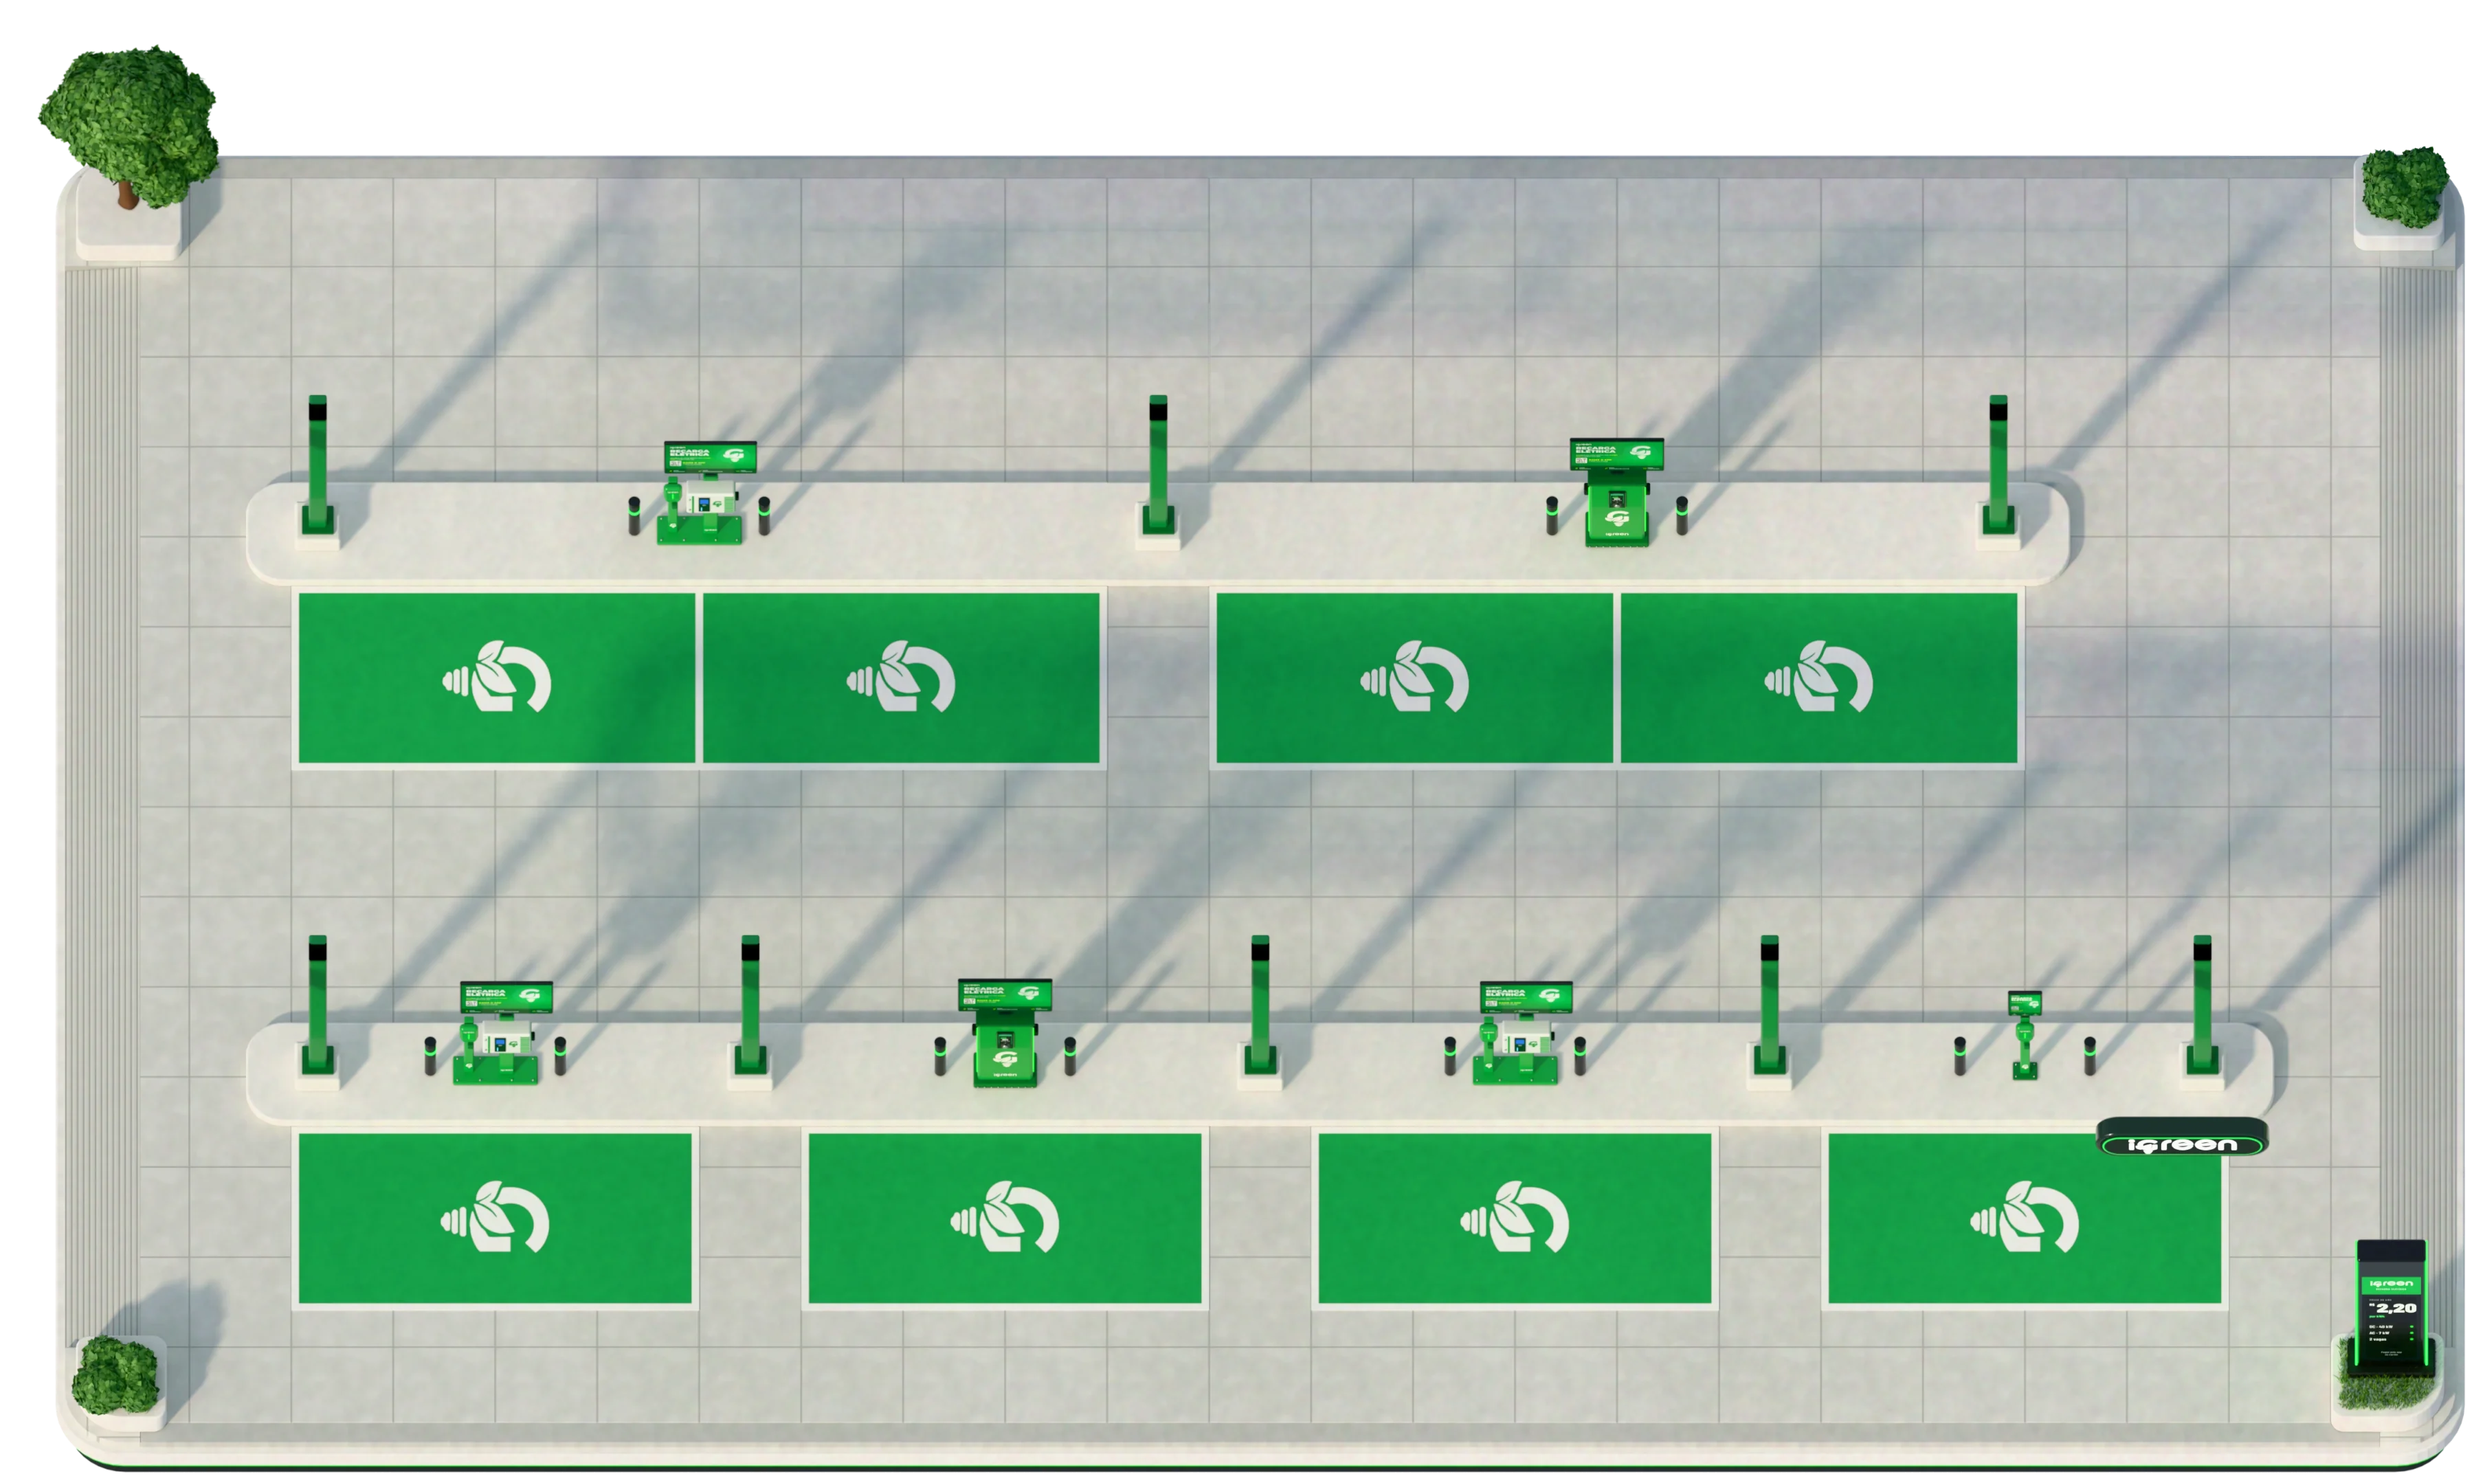
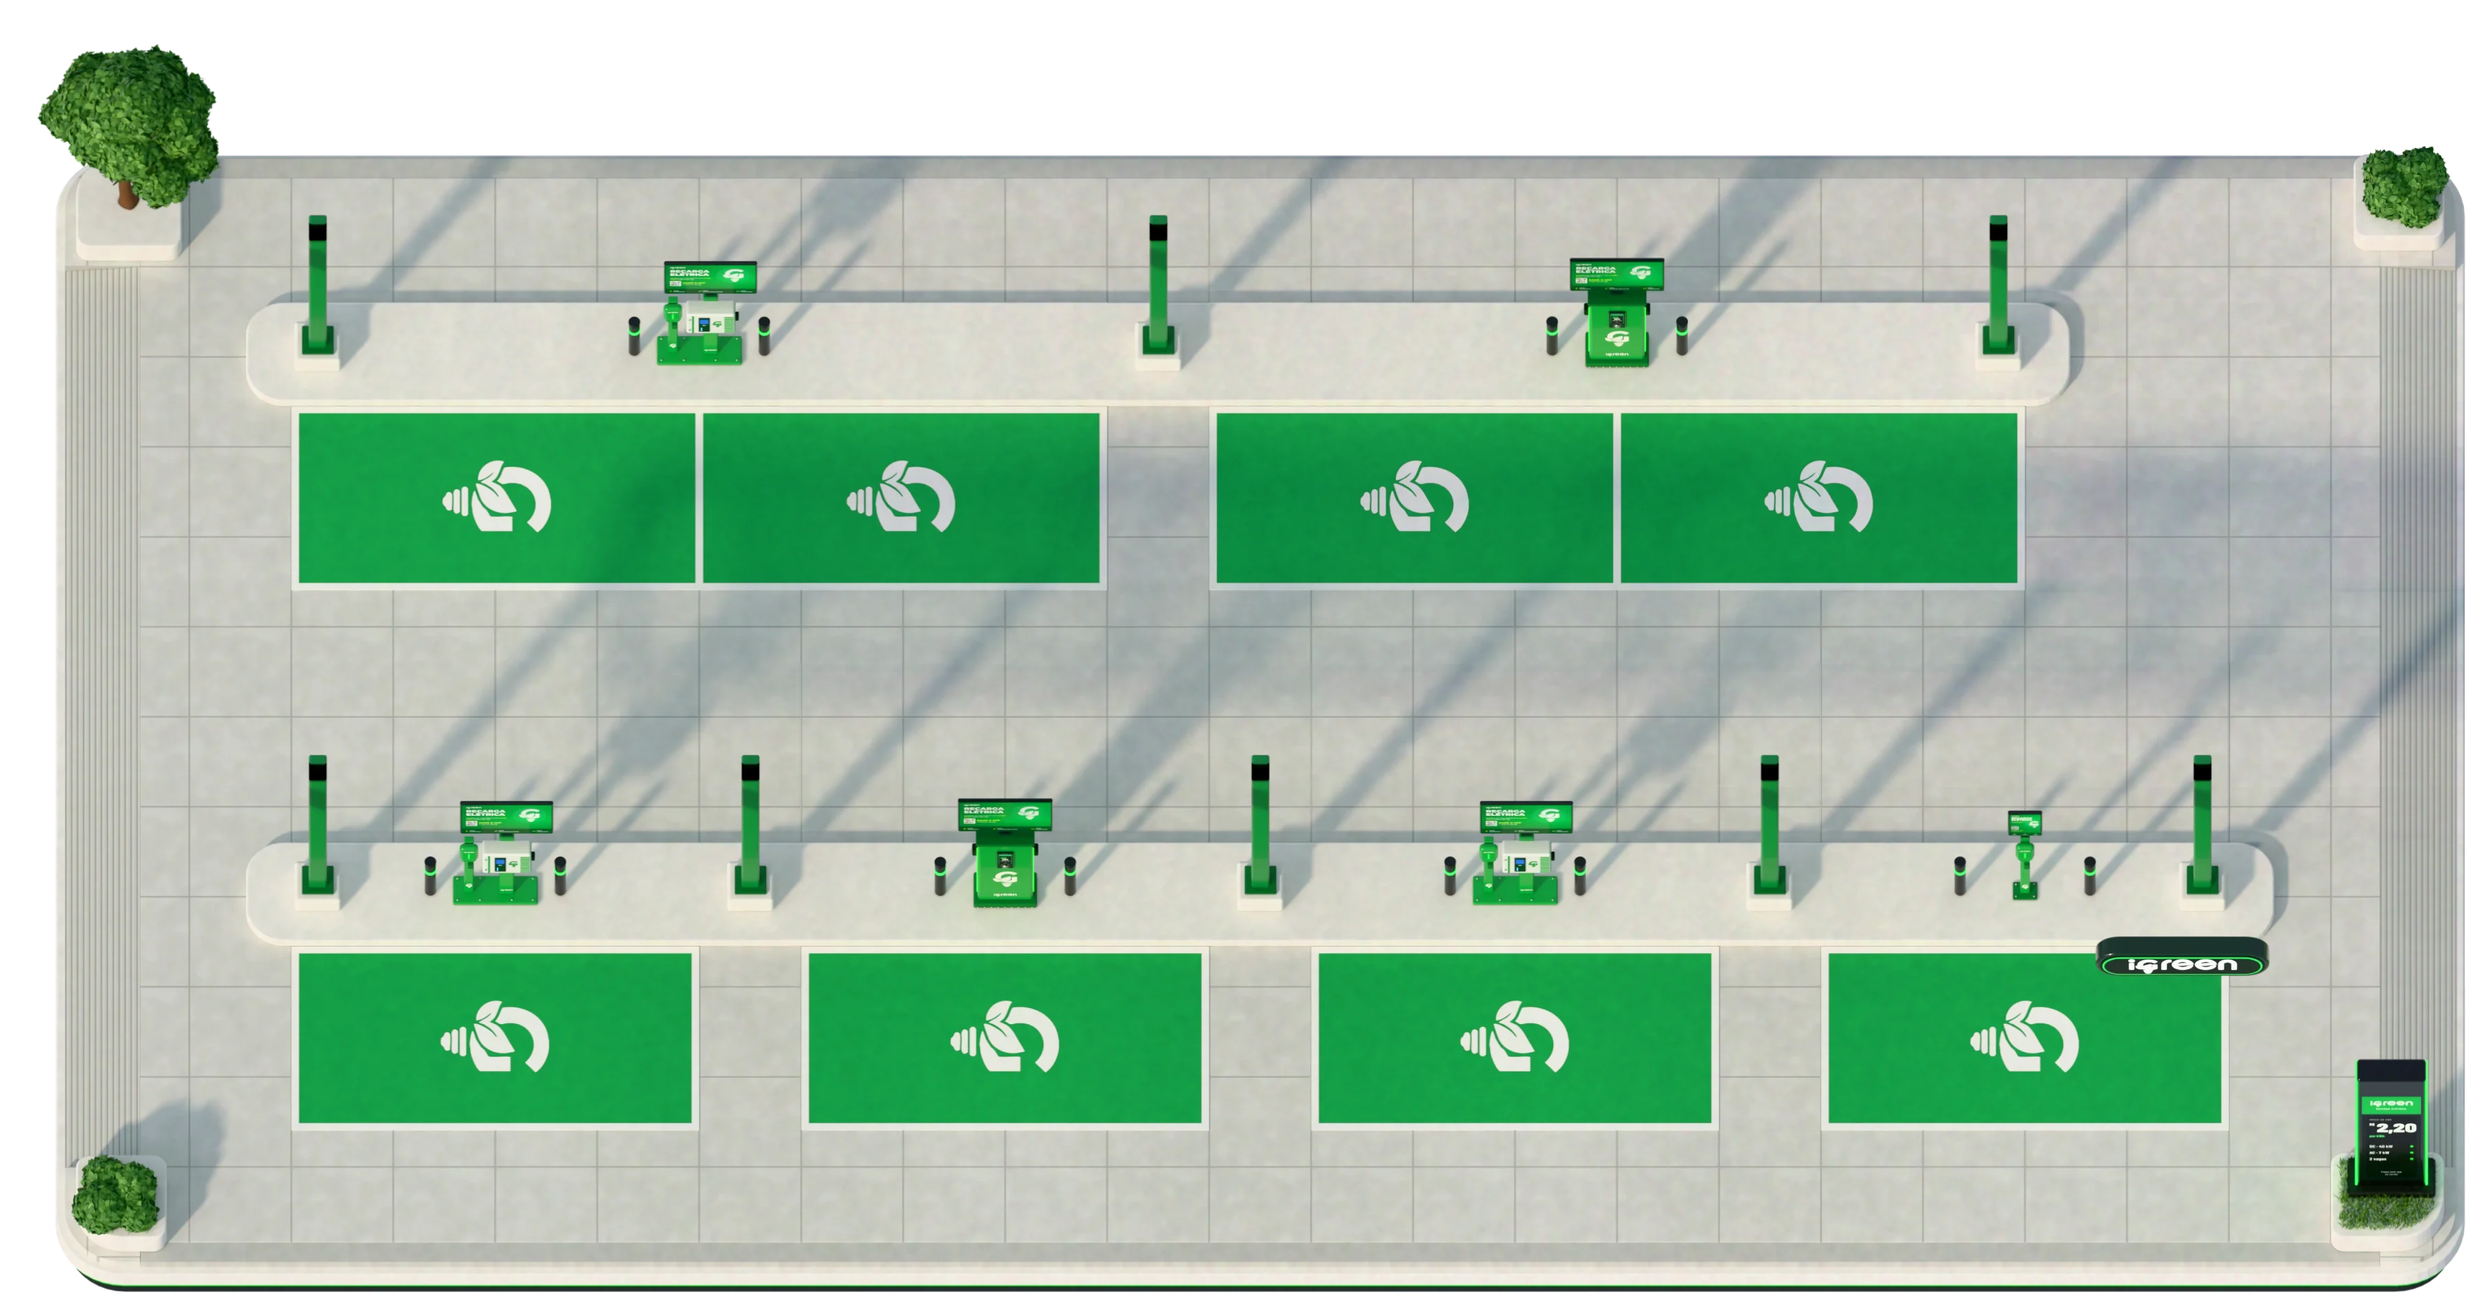
Painel V3: laje recuada sem vaga atrás, zoom da 2D e aviso do 3D bloqueado
- Vagas paralelas: a última ilha sem vaga atrás (ou a primeira sem vaga na frente) não deixa mais
  a faixa da vaga sobrando: a laje recua 2,7 m desse lado (lateral-plano.js e a prévia do
  construtor). Validado contra o render inteiro do Blender; a maquete m-998add47 foi remontada.
- 2D: durante o zoom e o arrasto, o desenho pronto só é deslocado e ampliado, e a planta é
  redesenhada uma vez quando para; o fim do zoom não se arrasta mais.
- 3D bloqueado pelo navegador: o aviso diz o motivo e "Tentar o 3D" testa antes se o navegador
  já libera, sem ir e voltar.

diff --git a/final/web/lateral-plano.js b/final/web/lateral-plano.js
@@ -34,7 +34,12 @@ export function plano(layout, M) {
     return { i, y: i * pitch, comp: x - M.sep_x, bombas }
   })
   const xFim = Math.max(...ilhas.map((il) => il.comp))
-  const yv0 = ilhas[0].y - M.isl_w / 2 - 0.05 - M.bay_w, yv1 = ilhas.at(-1).y + M.isl_w / 2 + 0.05 + M.bay_w
+  // (9/11, Sergio) a última ilha sem vaga atrás (ou a primeira sem vaga na frente) não deixa a faixa da vaga sobrando: a
+  // laje recua 2 passos de 1,35 m desse lado (um número inteiro de pixels na câmera fixa: as peças do chão só mudam de
+  // lugar). Fica ~2,35 m de piso da borda da ilha à borda da laje, como os 2,2 m da frente das vagas
+  const recuoF = ilhas[0].bombas.some((b) => b.lados.includes(-1)) ? 0 : 2 * P
+  const recuoT = ilhas.at(-1).bombas.some((b) => b.lados.includes(1)) ? 0 : 2 * P
+  const yv0 = ilhas[0].y - M.isl_w / 2 - 0.05 - M.bay_w + recuoF, yv1 = ilhas.at(-1).y + M.isl_w / 2 + 0.05 + M.bay_w - recuoT
   const laje = { x0: -M.ap - 0.12, x1: xFim + M.ap + 0.12, y0: yv0 - M.m_fr, y1: yv1 + M.m_fu }
   // os trechos do teto e os pilares (build_coberturas_laterais) e o letreiro (o primeiro teto da ilha mais da frente)
   const trechos = [], pilares = []; let letreiro = null
@@ -61,7 +66,7 @@ export function plano(layout, M) {
     }
     for (const x of [...pil].sort((a, b) => a - b)) pilares.push({ x, y: il.y, ilha: il.i })
   }
-  return { ilhas, xFim, laje, trechos, pilares, letreiro, pitch, fora }
+  return { ilhas, xFim, laje, trechos, pilares, letreiro, pitch, fora, recuoF, recuoT }
 }
 
 // a bomba muda com o teto da frente (o sol e os spots chegam nela por ali): c0 / cf
@@ -84,29 +89,33 @@ export function altasDo(pl) {
 // floreiras, não)
 export function celulas(pl, M) {
   const H = pl.pitch / 2, out = [], n = pl.ilhas.length, X = pl.xFim, i0 = pl.ilhas[0].y, iN = pl.ilhas.at(-1).y
+  // (9/11) com o recuo da laje, a faixa da primeira ilha começa rF mais para dentro e a da última termina rT antes; a tira da
+  // frente, a dos fundos, os cantos e as tiras de borda das laterais vão junto (as mesmas peças, no lugar novo)
+  const rF = pl.recuoF || 0, rT = pl.recuoT || 0, f0 = i0 + rF, fN = iN - rT
   const add = (tipo, ax, ay, r, fonte = true) => out.push({ tipo, ax, ay, r, fonte })
   for (const il of pl.ilhas) {
     // (a moita da floreira da frente, vista de cima, entra na lateral e na ponta da primeira faixa: as peças dessas
     // células vêm de uma faixa do meio)
     const y = il.y, meio = il.i > 0 && il.i < n - 1
-    add('lado-e', -P, y, [-I, 0, -H, H], meio)
-    add('ponta-e', -P, y, [0, P, -H, H], il.i > 0)
+    const a = il.i === 0 ? -H + rF : -H, b2 = il.i === n - 1 ? H - rT : H
+    add('lado-e', -P, y, [-I, 0, a, b2], meio)
+    add('ponta-e', -P, y, [0, P, a, b2], il.i > 0)
     il.bombas.forEach((b, j) => {
-      add(`mod/${b.disp}${b.disp === 'dois' ? '' : b.lados[0] < 0 ? '/f' : '/t'}`, b.x0, y, [0, b.x1 - b.x0, -H, H])
-      if (j + 1 < il.bombas.length) add('junta', b.x1, y, [0, M.sep_x, -H, H])
+      add(`mod/${b.disp}${b.disp === 'dois' ? '' : b.lados[0] < 0 ? '/f' : '/t'}`, b.x0, y, [0, b.x1 - b.x0, a, b2])
+      if (j + 1 < il.bombas.length) add('junta', b.x1, y, [0, M.sep_x, a, b2])
     })
     // (à direita, a sombra da floreira do totem entra na primeira faixa logo depois do fim da maior ilha)
     const limpa = (x0) => il.i > 0 || x0 < X - 0.01
-    add('ponta-d', il.comp, y, [0, P, -H, H], limpa(il.comp))
-    for (let k = Math.round((il.comp + P) / P); k < Math.round((X + P) / P); k++) add('vazio', k * P, y, [0, P, -H, H], limpa(k * P))
-    add('lado-d', X + P, y, [0, I, -H, H], meio)
+    add('ponta-d', il.comp, y, [0, P, a, b2], limpa(il.comp))
+    for (let k = Math.round((il.comp + P) / P); k < Math.round((X + P) / P); k++) add('vazio', k * P, y, [0, P, a, b2], limpa(k * P))
+    add('lado-d', X + P, y, [0, I, a, b2], meio)
   }
-  for (let k = 0; k < Math.round(X / P); k++) { add('frente', k * P, i0, [0, P, -I, -H]); add('fundo', k * P, iN, [0, P, H, I]) }
-  add('canto-fe', 0, i0, [-I, 0, -I, -H]); add('canto-fd', X, i0, [0, I, -I, -H])
-  add('canto-te', 0, iN, [-I, 0, H, I]); add('canto-td', X, iN, [0, I, H, I])
+  for (let k = 0; k < Math.round(X / P); k++) { add('frente', k * P, f0, [0, P, -I, -H]); add('fundo', k * P, fN, [0, P, H, I]) }
+  add('canto-fe', 0, f0, [-I, 0, -I, -H]); add('canto-fd', X, f0, [0, I, -I, -H])
+  add('canto-te', 0, fN, [-I, 0, H, I]); add('canto-td', X, fN, [0, I, H, I])
   // por cima das laterais (e da tira de 1,35 m vizinha, com a ponta ou o vazio) da primeira e da última faixa, numa
   // tira de 2,7 m junto da borda
-  add('lado-e/0', -P, i0, [-I, P, -H, -H + 2 * P]); add('lado-d/0', X + P, i0, [-P, I, -H, -H + 2 * P])
-  add('lado-e/n', -P, iN, [-I, 0, H - 2 * P, H]); add('lado-d/n', X + P, iN, [0, I, H - 2 * P, H])
+  add('lado-e/0', -P, f0, [-I, P, -H, -H + 2 * P]); add('lado-d/0', X + P, f0, [-P, I, -H, -H + 2 * P])
+  add('lado-e/n', -P, fN, [-I, 0, H - 2 * P, H]); add('lado-d/n', X + P, fN, [0, I, H - 2 * P, H])
   return out
 }

diff --git a/final/app/site/painel.html b/final/app/site/painel.html
@@ -1530,6 +1530,12 @@ function escolheVisaoMq() {
 }
 const VISAO_MQ = escolheVisaoMq()
 function trocaVisaoMq(v) {
+  // (9/11) o navegador ainda recusa o 3D: avisa aqui mesmo, sem ir e voltar
+  if (v === '3d' && q.get('sem3d') === 'webgl' && !webglLivre()) {
+    document.getElementById('avisoVisao').hidden = false
+    document.getElementById('avisoVisaoTxt').textContent = 'O 3D continua bloqueado. Feche o navegador por completo (todas as janelas) e abra de novo.'
+    return
+  }
   try { localStorage.setItem('painel-visao-maquete', v) } catch {}
   const u = new URL(location.href); u.searchParams.set('visao', v); u.searchParams.delete('sem3d'); location.href = u
 }
@@ -1689,7 +1695,8 @@ try {
   mq = await motor(el, { dados: pastaPosto, pasta: ESTILO_2D, hora: horaBrasil(), aoProgresso: progresso, qualidade: VISUAL.q !== 'auto' ? VISUAL.q : null })
 } catch (e) {
   console.error('a maquete não abriu:', e)
-  if (VISAO_MQ.v === '3d') { const u = new URL(location.href); u.searchParams.set('visao', '2d'); u.searchParams.set('sem3d', '1'); location.replace(u) }
+  // o motivo vai junto: "webgl" é o navegador recusando o 3D (só volta reiniciando o navegador); "erro", outra falha
+  if (VISAO_MQ.v === '3d') { const u = new URL(location.href); u.searchParams.set('visao', '2d'); u.searchParams.set('sem3d', /webgl/i.test(String(e && e.message)) ? 'webgl' : 'erro'); location.replace(u) }
   else cargaParada('Não deu para abrir a maquete agora.', false)
   await new Promise(() => {})                                   // o resto da página não roda
 }
@@ -1747,7 +1754,11 @@ function avisoVisao(txt, botao, para, guarda = true) {
   document.getElementById('avisoVisaoX').onclick = () => { a.hidden = true; if (guarda) try { localStorage.setItem('painel-visao-maquete', VISAO_MQ.v) } catch {} }
 }
 // (9/11) o 3D não abriu (veio para cá sozinho, ?sem3d=1): fechar o aviso não guarda a 2D, o 3D volta a ser tentado depois
-if (q.has('sem3d') && VISAO_MQ.v === '2d') avisoVisao('O 3D não abriu neste navegador agora: abrimos a visão 2D. Se continuar, reinicie o navegador.', 'Tentar o 3D', '3d', false)
+// "webgl": antes de ir para o 3D, "Tentar o 3D" testa se o navegador já libera (sem a ida e volta quando ainda não libera)
+const webglLivre = () => { try { const c = document.createElement('canvas'), g = c.getContext('webgl2') || c.getContext('webgl'); if (!g) return false; const x = g.getExtension('WEBGL_lose_context'); if (x) x.loseContext(); return true } catch { return false } }
+if (q.get('sem3d') === 'webgl' && VISAO_MQ.v === '2d') {
+  avisoVisao('O navegador bloqueou o 3D (acontece depois que a placa de vídeo trava): abrimos a visão 2D.', 'Tentar o 3D', '3d', false)
+} else if (q.has('sem3d') && VISAO_MQ.v === '2d') avisoVisao('O 3D não abriu agora: abrimos a visão 2D.', 'Tentar o 3D', '3d', false)
 else if (VISAO_MQ.motivo) avisoVisao(`${VISAO_MQ.motivo}: abrimos a visão 2D, mais leve.`, 'Ver em 3D', '3d')
 // 3D escolhido sozinho: se os primeiros segundos depois que a maquete aparece ficarem travados, sugere a 2D (sem trocar sozinho)
 function vigiaQuadros() {

diff --git a/final/app/site/planta-imagem.js b/final/app/site/planta-imagem.js
@@ -270,15 +270,34 @@ export async function criarPlantaImagem(el, opcoes = {}) {
     const cabeCss = parseFloat(getComputedStyle(el).getPropertyValue('--mv-cabe'))
     s0 = Math.min(q0.w / W, q0.h / H) * (cabeCss > 0 ? cabeCss : Wc < 560 ? 0.96 : CABE)
     const d = Math.min(2, devicePixelRatio || 1); cnv.width = Math.round(Wc * d); cnv.height = Math.round(Hc * d)
-    aplicaVista()
+    aplicaVista(true)
   }
-  function aplicaVista() {
+  // (9/11) zoom e arrasto leves: trocar o viewBox redesenha a planta inteira (as imagens grandes, os filtros) a cada quadro
+  // e o zoom da 2D saía mais pesado que o do 3D (medido: ~3× na placa de vídeo, ~2× no processador por quadro). Enquanto
+  // a vista anda, o desenho que já está pronto só é deslocado e ampliado (transform, feito pela placa, sem redesenhar); no
+  // primeiro quadro parado, o viewBox novo entra e a planta é redesenhada uma vez, nítida. Num movimento grande, redesenha
+  // no caminho (para não borrar demais nem mostrar a borda)
+  let vbC = null, vbAnt = null, parado = 0
+  svg.style.transformOrigin = '0 0'; svg.style.willChange = 'transform'
+  function aplicaVista(fixa = false) {
+    // o fim do zoom não se arrasta: perto do alvo, chega nele (antes eram dezenas de passos minúsculos, cada um redesenhando)
+    if (Math.abs(zoom.k - zoom.alvo) < zoom.alvo * 0.002) zoom.k = zoom.alvo
     s = s0 * zoom.k
     if (zoom.k <= 1.001 && foco < 0.05 && !centroAlvo) { zoom.cx = lerp(zoom.cx, W / 2, 0.2); zoom.cy = lerp(zoom.cy, H / 2, 0.2) }
     zoom.cx = clamp(zoom.cx, 0, W); zoom.cy = clamp(zoom.cy, 0, H)
     const cxp = q0.l + q0.w / 2, cyp = q0.t + q0.h / 2
     vb = { x: zoom.cx - cxp / s, y: zoom.cy - cyp / s }
-    svg.setAttribute('viewBox', `${vb.x.toFixed(2)} ${vb.y.toFixed(2)} ${(Wc / s).toFixed(2)} ${(Hc / s).toFixed(2)}`)
+    const anda = !fixa && vbAnt && (Math.abs(s / vbAnt.s - 1) > 1e-4 || Math.hypot(vb.x - vbAnt.x, vb.y - vbAnt.y) * s > 0.05)
+    vbAnt = { x: vb.x, y: vb.y, s }
+    parado = anda ? 0 : parado + 1
+    const tx = vbC ? (vbC.x - vb.x) * s : 0, ty = vbC ? (vbC.y - vb.y) * s : 0, k = vbC ? s / vbC.s : 1
+    // redesenha: na primeira vez, parado há 2 quadros, ou longe demais do último desenho (borrado ou com a borda à mostra)
+    if (fixa || !vbC || parado >= 2 || k > 2.2 || k < 0.5 || Math.abs(tx) > Wc * 0.6 || Math.abs(ty) > Hc * 0.6) {
+      const v = `${vb.x.toFixed(2)} ${vb.y.toFixed(2)} ${(Wc / s).toFixed(2)} ${(Hc / s).toFixed(2)}`
+      if (svg.getAttribute('viewBox') !== v) svg.setAttribute('viewBox', v)
+      if (svg.style.transform) svg.style.transform = ''
+      vbC = { x: vb.x, y: vb.y, s }
+    } else if (anda || svg.style.transform) svg.style.transform = `translate(${tx.toFixed(2)}px, ${ty.toFixed(2)}px) scale(${k.toFixed(5)})`
     const kt = s / s0, gx = -vb.x * s, gy = -vb.y * s, ch = kt.toFixed(3) + gx.toFixed(1) + gy.toFixed(1)
     if (ch !== gradeChave) { gradeChave = ch; el.style.setProperty('--grade-k', kt.toFixed(3)); el.style.setProperty('--grade-x', gx.toFixed(1) + 'px'); el.style.setProperty('--grade-y', gy.toFixed(1) + 'px') }
   }

diff --git a/final/app/site/construtor-lateral.html b/final/app/site/construtor-lateral.html
@@ -538,8 +538,12 @@ const corPaint = '#1C8A46', corPaintSel = '#22A653'
 let limites = { x0: 0, x1: 1, y0: 0, y1: 1 }
 function desenhaMapa(limpo = false) {
   const G = geometria(), n = st.ilhas.length, livres = !limpo && disponiveis().length > 0
-  const yv0 = -(M.isl_w / 2 + 0.05 + M.bay_w), yN = (n - 1) * PITCH + M.isl_w / 2 + 0.05 + M.bay_w
   const comNova = livres && n < MAX_ILHAS && st.ilhas[n - 1].bombas.length > 0
+  // (9/11) a mesma regra do lateral-plano.js: sem vaga atrás na última ilha (ou na frente da primeira), a laje recua 2,7 m
+  const tem = (il, lado) => il.bombas.some((m) => m.disp === 'dois' || m.lado === lado)
+  const rF = st.ilhas[0].bombas.length && !tem(st.ilhas[0], 'frente') ? 2.7 : 0
+  const rT = !comNova && st.ilhas[n - 1].bombas.length && !tem(st.ilhas[n - 1], 'tras') ? 2.7 : 0
+  const yv0 = -(M.isl_w / 2 + 0.05 + M.bay_w) + rF, yN = (n - 1) * PITCH + M.isl_w / 2 + 0.05 + M.bay_w - rT
   const xFim = G.xFim + (livres ? M.sep_x + M.bay_l : 0)
   const lx0 = -M.ap - 0.12, lx1 = xFim + M.ap + 0.12, ly0 = yv0 - M.m_fr, ly1 = yN + M.m_fu + (comNova ? PITCH : 0)
   const laje = retRedondo(lx0, ly0, lx1, ly1, 0.9)
